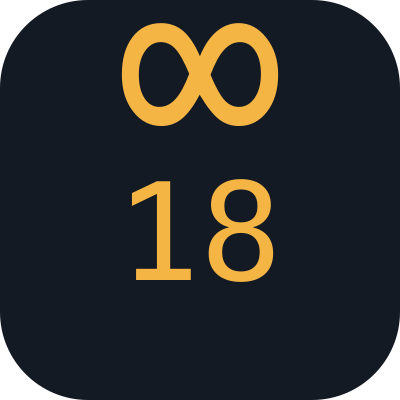
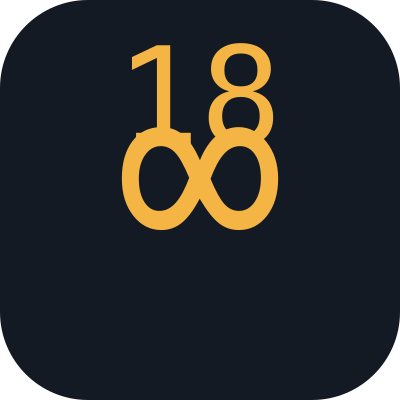
Swap the mark to 18∞, level the glyphs, refresh the hero kicker
The lockup now reads 18 then ∞, flush: the two glyphs have different left
side bearings, so setting them flush is not a matter of advancing by the
digits' width. Measured -- ∞ belongs at digit_x + 68.

Levelling was a separate bug the swap exposed. Both glyphs render 46.8
units tall (the 2.047 scale is exact) but the ∞ ink sat 16.5 units high,
because the glyphs sit differently inside their em boxes. Both centres
now measure 57.2.

Kicker: Agentic AI · Machine Learning · Quantitative Finance.

Changed region(s): [[0.3, 0.06, 0.72, 0.72]]

diff --git a/layouts/index.html b/layouts/index.html
@@ -37,7 +37,7 @@
 <div class="home-wrap">
 
   <section class="hero">
-    <p class="hero-kicker">ML Infrastructure · Quantitative Finance</p>
+    <p class="hero-kicker">Agentic AI · Machine Learning · Quantitative Finance</p>
     <h1 class="hero-title">Systems for models, <em>markets</em>, and scale.</h1>
     <div class="hero-copy">
       <p>

diff --git a/scripts/logo.py b/scripts/logo.py
@@ -36,43 +36,64 @@ MONO = "'JetBrains Mono', 'SF Mono', Menlo, monospace"
 # needs 303/148 = 2.047x. Re-derive with scripts/measure_glyphs.py if the
 # typeface ever changes.
 INFINITY_SCALE = 2.047
-INFINITY_DY = 0.0
+# Matching the ink *height* does not centre it. Rendered on a shared baseline
+# with dominant-baseline="central", both glyphs come out 46.8 units tall — the
+# scale above is exact — but the ∞ ink sits 16.5 units higher than the digits',
+# because the two glyphs are placed differently inside their em boxes. Nudge it
+# back down by that measured amount, as a fraction of the mark's height.
+INFINITY_DY = 16.5 / 160
 
 
 def mark_svg(color: str, w: int = 210, h: int = 160, bg: str | None = None) -> str:
-    """The horizontal ∞18 lockup that sits beside the name.
+    """The horizontal 18∞ lockup that sits beside the name.
 
     The box is deliberately taller than the visible ink. At the scale needed to
     match the digits, the ∞ em-box exceeds the box sized to those digits and the
     glyph is silently cropped — which is exactly what made the first attempts
     look wrong even with the correct scale factor.
+
+    Both x positions are measured, not chosen. Rendered at a text x of 20:
+
+        18   fs 62.0    ink 26.0 .. 90.5   (left side bearing 6.0)
+        ∞    fs 126.9   ink 22.5 .. 93.5   (left side bearing 2.5)
+
+    The two side bearings differ, so setting the glyphs flush is not a matter of
+    advancing by the digits' width — do that and a 3.5px gap opens up. For
+    digits at DIGIT_X the ∞ belongs at DIGIT_X + 68, which puts the start of its
+    ink exactly where theirs ends. DIGIT_X is then chosen so the leftmost ink
+    stays at 22.5, where it sat when the ∞ led, leaving the framing unchanged by
+    the swap.
     """
     fs = 62
     cy = h / 2
-    # x=88 is measured, not chosen: the ∞ ink ends at x≈93.5 and the digits
-    # carry a left side bearing, so this sets them flush with no visible gap.
+    digit_x = 16.5
+    inf_x = digit_x + 68
     plate = f'<rect width="{w}" height="{h}" rx="{h*0.2}" fill="{bg}"/>' if bg else ""
     return f"""<svg xmlns="http://www.w3.org/2000/svg" width="{w}" height="{h}" viewBox="0 0 {w} {h}">
   {plate}
-  <text x="20" y="{cy + h*INFINITY_DY}" dominant-baseline="central"
-        font-family="{MONO}" font-size="{fs*INFINITY_SCALE:.1f}" font-weight="500"
-        fill="{color}">∞</text>
-  <text x="88" y="{cy}" dominant-baseline="central"
+  <text x="{digit_x}" y="{cy}" dominant-baseline="central"
         font-family="{MONO}" font-size="{fs}" font-weight="500"
         fill="{color}">18</text>
+  <text x="{inf_x}" y="{cy + h*INFINITY_DY}" dominant-baseline="central"
+        font-family="{MONO}" font-size="{fs*INFINITY_SCALE:.1f}" font-weight="500"
+        fill="{color}">∞</text>
 </svg>"""
 
 
 def icon_svg(color: str, size: int = 512, plate: str = "#141a23") -> str:
-    """Square icon. Stacked, because ∞18 side by side is illegible at 32px."""
+    """Square icon. Stacked, because 18∞ side by side is illegible at 32px.
+
+    Reading order follows the lockup: 18 first, so the icon and the wordmark
+    are not two different marks.
+    """
     return f"""<svg xmlns="http://www.w3.org/2000/svg" width="{size}" height="{size}" viewBox="0 0 {size} {size}">
   <rect width="{size}" height="{size}" rx="{size*0.22}" fill="{plate}"/>
-  <text x="{size/2}" y="{size*0.40}" text-anchor="middle" dominant-baseline="central"
-        font-family="{MONO}" font-size="{size*0.34*INFINITY_SCALE:.0f}" font-weight="500"
-        fill="{color}">∞</text>
-  <text x="{size/2}" y="{size*0.70}" text-anchor="middle" dominant-baseline="central"
+  <text x="{size/2}" y="{size*0.36}" text-anchor="middle" dominant-baseline="central"
         font-family="{MONO}" font-size="{size*0.34:.0f}" font-weight="500"
         fill="{color}">18</text>
+  <text x="{size/2}" y="{size*0.66}" text-anchor="middle" dominant-baseline="central"
+        font-family="{MONO}" font-size="{size*0.34*INFINITY_SCALE:.0f}" font-weight="500"
+        fill="{color}">∞</text>
 </svg>"""
 
 

diff --git a/content/projects/slinky-gitops.md b/content/projects/slinky-gitops.md
@@ -94,25 +94,68 @@ srun: Required node not available (down, drained or reserved)
 
 Rotation can only break one thing — the trust between `slurmctld` and `slurmd`,
 because that's what the rotated key authenticates. My check ran `sinfo` *inside
-the controller pod* and looked at the exit code. That never touches the
-relationship in question. `slurmctld` answers a local client whether or not a
-single compute node ever came back, so the check passed against an empty
-cluster.
+the controller pod* and looked at the exit code, which never touches that
+relationship: `slurmctld` answers a local client whether or not a single compute
+node ever came back. It would have passed against a cluster with zero nodes.
 
-The signal that does cross the boundary is registration. A `slurmd` holding the
-wrong key can't register, and `slurmctld` flags it not-responding with a `*` on
-the state. *Every node losing its `*`* is the real end-to-end check.
+Pulling that thread found four defects, all the same bug — **a check that can't
+fail:**
 
-The resume was wrong for the same reason: it fired right after the rollout
-restart, against nodes that hadn't come back, and `scontrol update State=RESUME`
-doesn't repeat itself. The node registered a minute later, still drained, and
-stayed that way for the 43 minutes until the CI job was killed.
+| Check | Why it passed anyway |
+| --- | --- |
+| `sinfo` exits 0 | Never leaves the controller pod |
+| No `*` on any node state | Raced the restart; passed 130 ms after it |
+| `grep -E '^(idle\|mix\|alloc)'` | Also matches `idle*` — a node that can't be reached, i.e. the failure itself |
+| Wait for replacement pods | No success flag, so a timeout fell through to a green tick |
 
-The general form is worth more than the bug: **a check that doesn't cross the
-boundary you might have broken will pass no matter what you broke.** Green ticks
-on a dead cluster are worse than a red one, because they stop you looking.
+And one defect in the deployment rather than my script:
 
-None of the four are things I'd have predicted from reading the docs.
+```
+$ kubectl get pod slurm-worker-slinky-0 -o jsonpath='{.metadata.ownerReferences[*].kind}'
+NodeSet
+```
+
+`kubectl rollout restart` only understands built-in workload kinds. `NodeSet` is
+a CRD, so the command I trusted to cycle every daemon silently skipped the one
+on the far side of the boundary I was rotating. The controller took the new key
+in seconds; slurmd kept the old one.
+
+## The part I couldn't fix
+
+With all of that corrected, the rotation still fails — and now says so. On a
+clean cluster, with the Secret holding a new key and stable for five minutes, a
+slurmd pod deleted and recreated from scratch came up mounting the **previous**
+key:
+
+```
+secret                        c5016281…
+slurmd pod created 02:28:25   8cbda076…   ← pre-rotation key
+slurmctld                     c5016281…   ← correct
+```
+
+Slinky ships the auth Secret `immutable: true`, so its data can't be patched and
+delete-and-recreate is the only route — after which the node's kubelet keeps
+serving its cached copy to *newly created* pods. What I ruled out, because being
+precise about the boundary of what I know is the whole point:
+
+- **Not the operator rewriting it** — one value, `resourceVersion` unchanged, for 90s.
+- **Not immutability** — recreating the replacement as mutable behaves identically.
+- **Not universal** — the same delete-and-recreate against a Secret that node had never cached propagates instantly. That control test made me dismiss the whole thing too early, until I realised it didn't reproduce the one condition that matters: a pod holding the Secret continuously across the swap.
+
+I can reproduce it on demand and I can't attribute it to a specific kubelet code
+path, so the repo doesn't claim one.
+
+What the tool does about it is the actual deliverable: it hashes `slurm.key`
+inside every slurmd pod, compares it to the Secret, and **rolls back and exits
+non-zero on mismatch**. CI asserts that safety property rather than a success it
+can't have — `make rotate` must fail, and the cluster must still run a job
+afterwards.
+
+The general form is worth more than any single bug: **a check that doesn't cross
+the boundary you might have broken will pass no matter what you broke.** Green
+ticks on a dead cluster are worse than a red one, because they stop you looking.
+
+None of this is something I'd have predicted from reading the docs.
 
 ## Honest scope
 
